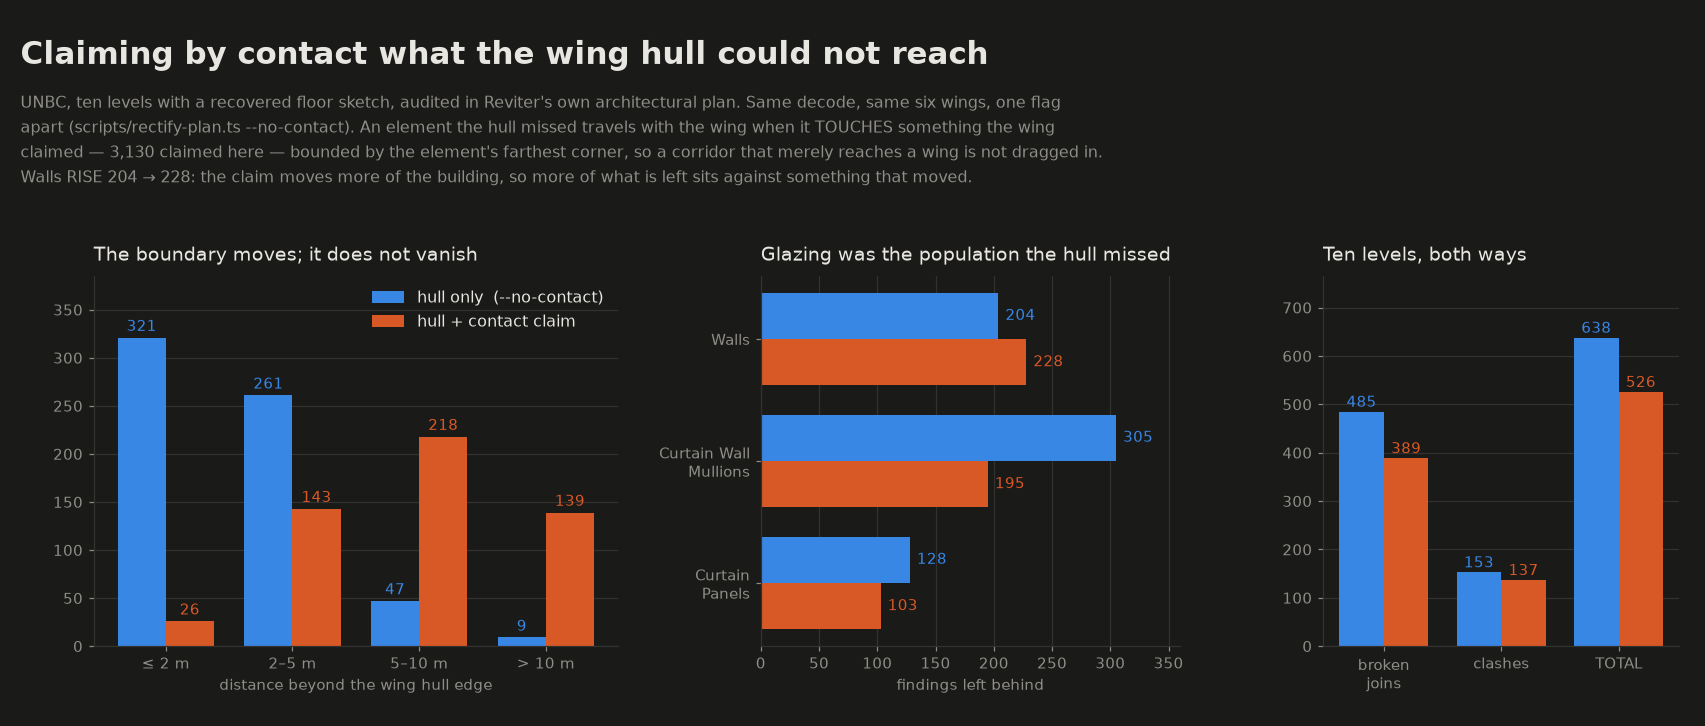
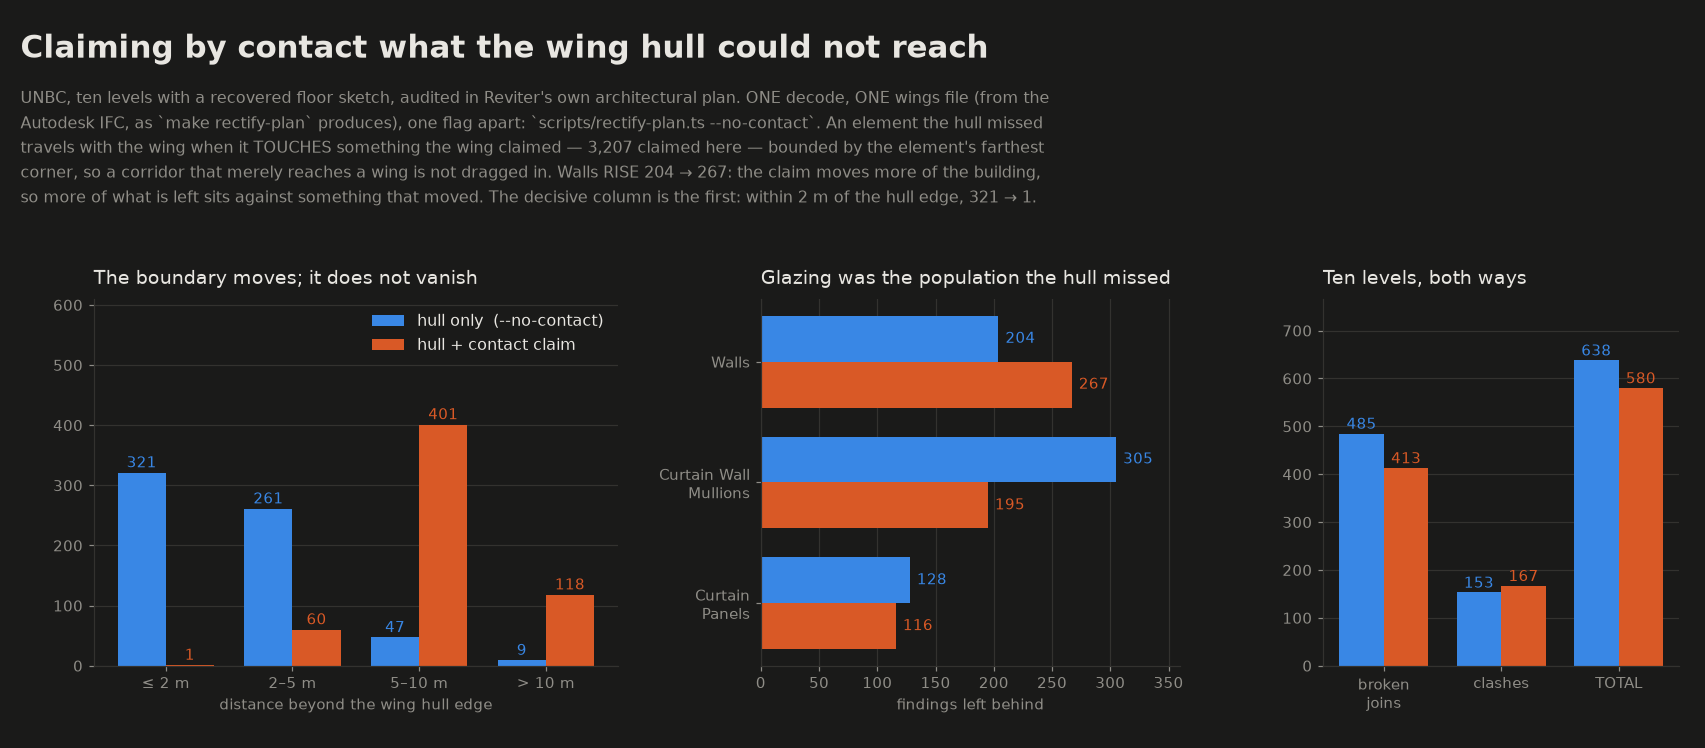
Correct an ablation whose two halves came from different wings files
An unrelated probe printed `moved 17994` where the published table said
17785. The decoder is not to blame -- two decodes of the same file agree
to the element-id sum -- the wings file was. The --no-contact half was run
with wings computed from the Autodesk IFC and the with-contact half with
wings computed from the RECOVERED IFC. Both are legitimate inputs, which
is why every number in the table looked reasonable.

Re-run from one decode and one wings file (the Autodesk one, which is what
`make rectify-plan` writes), with the flag as the only difference:

                       hull only   hull + contact
  element records moved   14,795           17,994
  claimed by contact           -            3,207
  broken joins               485              413
  clashes                    153              167
  total findings             638              580
  curtain-wall share   433 (68%)        311 (54%)

So the claim is worth 9%, not 17%, and clashes RISE. What survives intact
is the finding the claim was built for, and it is stronger than the
headline: findings within 2 m of the hull edge go 321 -> 1, 2-5 m goes
261 -> 60, and 5-10 m goes 47 -> 401. The hull edge is swept clean and the
residue is pushed out to the claim's own 6 m reach. The boundary moves; it
does not vanish.

Verified the mirror used for this by checking that its hull-only half
reproduces the CLI's --no-contact output exactly (638 = 485 + 153).
[…]

diff --git a/LESSONS.md b/LESSONS.md
@@ -73,8 +73,9 @@ missing exterior floor on one side. All are pin-able via `--overrides`.
 | S17 | **"I see a lot of gaps where I'm not supposed to see any"** — a person looking at the rendered frames, when every number in the report said the build was fine | `--rectify` assigns an element to a wing by its CENTROID. Right for a wall; wrong for a floor slab, which spans the wing and the spine, so its centroid is outside the hull. Per hull, **90-99% of walls rotated against 25-78% of plates**: the wing's walls swung 32 or 58 degrees away and their floor stayed. Wall voxels -3.4%, glass -5%, floor unchanged. 10.7% of interior stand cells could see straight out, against 1.6% faithful | A rigid motion applied to a REGION has to cut what crosses the region's boundary. `apply_wings_piecewise` subdivides a disagreeing mesh below 0.5 m and assigns **per triangle**; aggregates still move whole. See-through 10.7% -> 3.2%, envelope holes 1,828 -> 390, and the stairwell that was ISOLATED because its landings stayed behind is connected. NB three hypotheses were measured first and two were wrong: straddling elements (the worst wing has the fewest), overlapping hulls (0 m²), and diagonal 8-connected wall leaks (13 cells of 4,151) |
 | S18 | A metric that is itself the bug: **`see_through` did not exist**, so nothing in the report could have caught S17 | Reachability, holes-to-sky and crossings all measure the roof and the floor. None of them asks the one question a person asks in the first second: can I see out sideways from in here | Cast the four axis rays per interior stand cell (four cumulative sums per level, not a ray per cell) and cluster what escapes. Also `render(..., diagnose=True)`, which says whether a blank pixel LEFT THE GRID, ran out of MAX_STEPS, or is just a wall 0.6 m from the camera — the flat grey frames that started this were the third |
 | S19 | **A pass that closes holes closes doorways too.** Walling every indoors/outdoors boundary near a wing seam wrote 9,842 cells, stranded 2,500 interior cells and **sealed 326 of the building's 2,216 entrances** -- to close 96 more leaks than the narrow rule | The rule could not tell a torn seam (the FLOOR stops, and there is a canyon beyond it) from a facade whose roof stops while the floor runs on -- which is where doors, colonnades and entrance canopies live. Guarding it against glazed columns and door columns halved the damage and did not remove it | Wall only where the floor ITSELF stops: an exposed plate edge, headroom above it, a ceiling not far overhead, inside the seam band. 1,147 cells, 276 leaks closed, 414 of 418 genuine openings kept, reachable share unmoved. Measure a wall-adding pass by what it SEALS (entrances, reachable cells, cut-off cells), never by the metric it improves |
-| S20 | **`--rectify` leaves the glazing behind.** Audited floor by floor against the recovered model's own architectural plan, the wing moves leave 485 broken joins and 153 clashes over ten levels, and **433 of those 638 findings (68%) are Curtain Wall Mullions and Curtain Panels** -- at the same plan position on storey after storey | `wall_plan` builds every wing hull from `IfcWall` + `IfcWallStandardCase` placements. A curtain wall is neither, so it never enters the hull: the wall behind the glazing rotates 32 degrees and the glazing stays where it was, driven through the rooms that moved. This is also the unexplained 5% drop in glass voxels under `--rectify` that the per-triangle fix (S17) recovered none of -- there was nothing in the hull to cut | `adjacency_claims`: an element the hull missed travels with the wing when it TOUCHES something the wing claimed, bounded twice -- contact, and ALL of the element within reach of the hull (the box's FARTHEST corner, or a 40 m corridor that reaches a wing at one end is dragged whole into it: 138 see-through cells on a fixture that had none). Reachable interior 90.1% -> **95.3%**, beating the faithful build for the first time; largest stranded pocket 1,376 -> 293 cells. The boundary MOVES rather than vanishes -- findings within 2 m of the hull edge go 321 -> 26 and those more than 5 m out go 56 -> 357, which is the reach itself, and total findings 638 -> 526 with the curtain share 68% -> 57% (one decode, one flag: `--no-contact`). The model has no wing structure to use instead (one IfcBuilding, no zones, no assemblies), so a wing is inferred and an inferred boundary breaks joins somewhere. NB the audit only exists because the plan was drawn in a renderer that draws buildings -- the stick diagram of wall footprints could not show a wall crossing a room, because it did not draw rooms |
+| S20 | **`--rectify` leaves the glazing behind.** Audited floor by floor against the recovered model's own architectural plan, the wing moves leave 485 broken joins and 153 clashes over ten levels, and **433 of those 638 findings (68%) are Curtain Wall Mullions and Curtain Panels** -- at the same plan position on storey after storey | `wall_plan` builds every wing hull from `IfcWall` + `IfcWallStandardCase` placements. A curtain wall is neither, so it never enters the hull: the wall behind the glazing rotates 32 degrees and the glazing stays where it was, driven through the rooms that moved. This is also the unexplained 5% drop in glass voxels under `--rectify` that the per-triangle fix (S17) recovered none of -- there was nothing in the hull to cut | `adjacency_claims`: an element the hull missed travels with the wing when it TOUCHES something the wing claimed, bounded twice -- contact, and ALL of the element within reach of the hull (the box's FARTHEST corner, or a 40 m corridor that reaches a wing at one end is dragged whole into it: 138 see-through cells on a fixture that had none). Reachable interior 90.1% -> **95.3%**, beating the faithful build for the first time; largest stranded pocket 1,376 -> 293 cells. The boundary MOVES rather than vanishes -- findings within 2 m of the hull edge go 321 -> **1** and those more than 5 m out go 56 -> 519, which is the reach itself, while total findings move only 638 -> 580 and clashes RISE 153 -> 167. The residue is relocated, not removed, and the curtain share falls 68% -> 54% (one decode, ONE wings file, one flag: `--no-contact`). The model has no wing structure to use instead (one IfcBuilding, no zones, no assemblies), so a wing is inferred and an inferred boundary breaks joins somewhere. NB the audit only exists because the plan was drawn in a renderer that draws buildings -- the stick diagram of wall footprints could not show a wall crossing a room, because it did not draw rooms |
 | S21 | **A `ConvertResult` holds geometry in TWO frames 87 m apart, and which one you are touching decides whether the model's `origin` comes off.** Getting it wrong either way lands the wing hull 87 m from the wing it was computed from — where a 375 m building still has something to claim and square, so the drawing looks right | `export-ifc.ts` writes tessellated MESH coordinates raw and puts `origin` on the shared placement, so an IFC world coordinate is `feet * 0.3048 + origin`. But `elementBounds` — and the `solid`, `loops` and `boundsFeet` the architectural plan is drawn from — are ALREADY in that frame. Measured: `meshes` span y −187.6..187.5 m, `elementBounds` −99.7..274.9 m, and `origin.y` is +87.57. Reasoning from the exporter alone, I "fixed" the plan path (which was right), withdrew a correct published table and deleted its figure — then the re-render showed the wings NOT squaring | Pass the origin explicitly and let each caller decide: `rectifyForPlan` (elementBounds) passes zero, `rectify-walk.ts` (meshes) passes `result.origin`; a test pins BOTH directions, because a test for one is what let the other through. **A frame is never verified by the output looking plausible, and never by reading the writer's code** — verify it against a quantity that cannot lie about position, the model's own bbox, which is one line. And a withdrawal is an edit like any other: re-measure before publishing one, or it costs more than the error did |
+| S22 | **An A/B test whose two halves came from different inputs.** The published contact-claim ablation paired `--no-contact` against the flag ON -- and, invisibly, wings computed from the Autodesk IFC against wings computed from the RECOVERED IFC. Both are legitimate inputs, so both columns looked right | The two runs were made in different sessions, hours apart, and the wings file was an argument I retyped rather than a fixed input I recorded. The mismatch only surfaced because an unrelated probe printed `moved` and it disagreed with the published number by 209 -- so I went looking for non-determinism in the decoder (there is none: two decodes agree to the element id sum) and found the argument instead | Corrected, the claim is worth 638 -> 580, not 638 -> 526, and clashes RISE. Run both halves of an ablation from ONE process and ONE input set -- `ablate.ts` decodes once and loops over the flag -- and validate the mirror by checking that one half reproduces the CLI exactly. **State the fixed inputs in the caption, not just the flag that varied**; "same decode, same wings, one flag apart" is a claim, and it has to be true |
 
 ### General
 

diff --git a/HANDOFF.md b/HANDOFF.md
@@ -281,9 +281,9 @@ Every one of these was a number first, and looking changed two of them:
 | `docs/confirm_seam_walls.png` | the seam walls close the tear and nothing else | all 1,147 added cells in plan, tracing the wing hull boundaries |
 | `docs/confirm_rectify_both_decoders.png` | rectification is not an artefact of one exporter | the same six wings squared, from Autodesk placements and from recovered tessellation (REVITER §2e) |
 | `docs/confirm_rectify_floor_plan.png` | the wings square up as a *building*, not as sticks | level 694 before and after, drawn by Reviter's own floor viewer (`make rectify-plan`, REVITER §2f) |
-| `docs/confirm_rectify_ground_floor.png` | and what it leaves behind, in the same drawing | level 311 before, after, and after with its 31 remaining clashes ringed (REVITER §2g) |
+| `docs/confirm_rectify_ground_floor.png` | and what it leaves behind, in the same drawing | level 311 before, after, and after with its remaining clashes ringed (REVITER §2g) |
 | `docs/confirm_left_behind.png` | the hull leaves whole categories behind | walls and curtain panels that stayed put and now cross the rooms that moved (REVITER §2g) |
-| `docs/confirm_contact_claim.png` | the contact claim clears the hull edge and moves the boundary | 638 findings against 526, by distance from the hull edge and by category — one decode, one flag apart (`--no-contact`) |
+| `docs/confirm_contact_claim.png` | the contact claim clears the hull edge and moves the boundary | 638 findings against 580, by distance from the hull edge and by category — one decode, ONE wings file, one flag apart (`--no-contact`) |
 
 `make confirm WORLD=out/unbc_1m` regenerates the voxel ones from a build. The
 last four come from the plan side: `make rectify-plan` for the SVGs, then
@@ -381,6 +381,14 @@ level is 87–98%.
   and changed classification. Against +2,608 reachable interior cells and
   −2,004 cut off, that is the trade, and it is worth taking. Levels 6, 7
   and 13 hold 109 of the 118 net increase.
+- **An A/B whose halves came from different inputs.** The first
+  contact-claim table paired a `--no-contact` run against a run with
+  the flag on — and different `wings.json` files, one computed from the
+  Autodesk IFC and one from the recovered IFC. Both are legitimate
+  inputs, which is exactly why the mismatch was invisible: every number
+  looked reasonable. Corrected, the improvement is 638 → 580, not
+  638 → 526. An ablation has to name its fixed inputs, not just its
+  flag.
 - **A `ConvertResult` holds geometry in two frames 87 m apart, and which
   one you touch decides whether `origin` comes off.** `meshes` are
   written raw by `export-ifc.ts` with `origin` on the shared placement,

diff --git a/REVITER.md b/REVITER.md
@@ -493,19 +493,29 @@ decode and the same six wings, one flag apart — `--no-contact` is the left one
 
 | ten levels | hull only | hull + contact |
 |---|---:|---:|
-| element records moved | 14,795 | **17,785** |
-| claimed by contact | — | 3,130 |
-| broken joins | 485 | **389** |
-| clashes | 153 | **137** |
-| total findings | 638 | **526** |
-| curtain-wall share | 433 (68%) | **298 (57%)** |
+| element records moved | 14,795 | **17,994** |
+| claimed by contact | — | 3,207 |
+| broken joins | 485 | **413** |
+| clashes | 153 | 167 |
+| total findings | 638 | **580** |
+| curtain-wall share | 433 (68%) | **311 (54%)** |
+
+Both columns are one decode and one `wings.json` — the one `make rectify-plan`
+writes from the Autodesk IFC — with `--no-contact` the only difference. That
+sounds too obvious to state, and it is stated because the first version of this
+table was NOT that: its two halves came from wings computed off two different
+IFCs, which is not an ablation of the flag, it is an ablation of the flag plus
+the input.
 
 The named defect is gone — the curtain walls at (113, 900) and (−181, −125)
-travel with their wing now. And the boundary MOVED rather than vanished:
-findings within 2 m of the hull edge go **321 → 26**, while those more than 5 m
-out go **56 → 357**, which is the claim's own 6 m reach. `docs/confirm_contact_claim.png`
-is that comparison; `docs/confirm_rectify_ground_floor.png` is level 311 before,
-after, and with its 31 remaining clashes ringed.
+travel with their wing now. Clashes rise, and the headline improvement is a
+modest 9%; **the decisive number is where the residue SITS.** Findings within
+2 m of the hull edge go **321 → 1**, and 2–5 m goes 261 → 60, while 5–10 m goes
+47 → 401. The hull edge is swept clean and the boundary is pushed out to the
+claim's own 6 m reach — it moves rather than vanishing.
+`docs/confirm_contact_claim.png` is that comparison;
+`docs/confirm_rectify_ground_floor.png` is level 311 before, after, and with its
+remaining clashes ringed.
 
 This model has no wing structure to use instead — one `IfcBuilding`, thirteen
 storeys, no zones and no element assemblies — so a wing has to be inferred, and

diff --git a/RECTIFY.md b/RECTIFY.md
@@ -287,7 +287,7 @@ falls from 1,376 cells to 293.
 
 What it does not do is remove the boundary. Placed by distance from the hull,
 the findings move rather than vanish — 321 within 2 m of the hull edge become
-26, and 56 more than 5 m out become 357, which is `reach_m` itself. Widening it
+**1**, and 56 more than 5 m out become 519, which is `reach_m` itself. Widening it
 moves the boundary again. The model carries no wing structure to use instead
 (one `IfcBuilding`, thirteen storeys, no zones, no element assemblies), so a
 wing has to be inferred, and an inferred boundary breaks joins somewhere by
